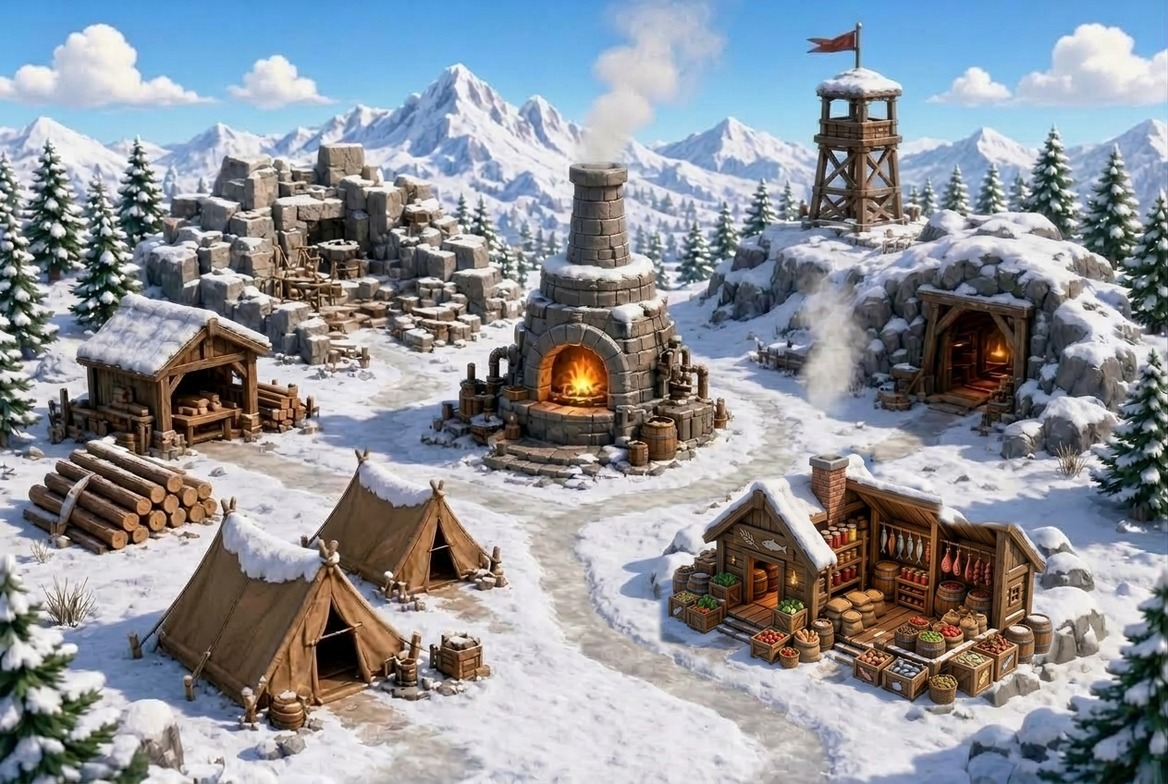
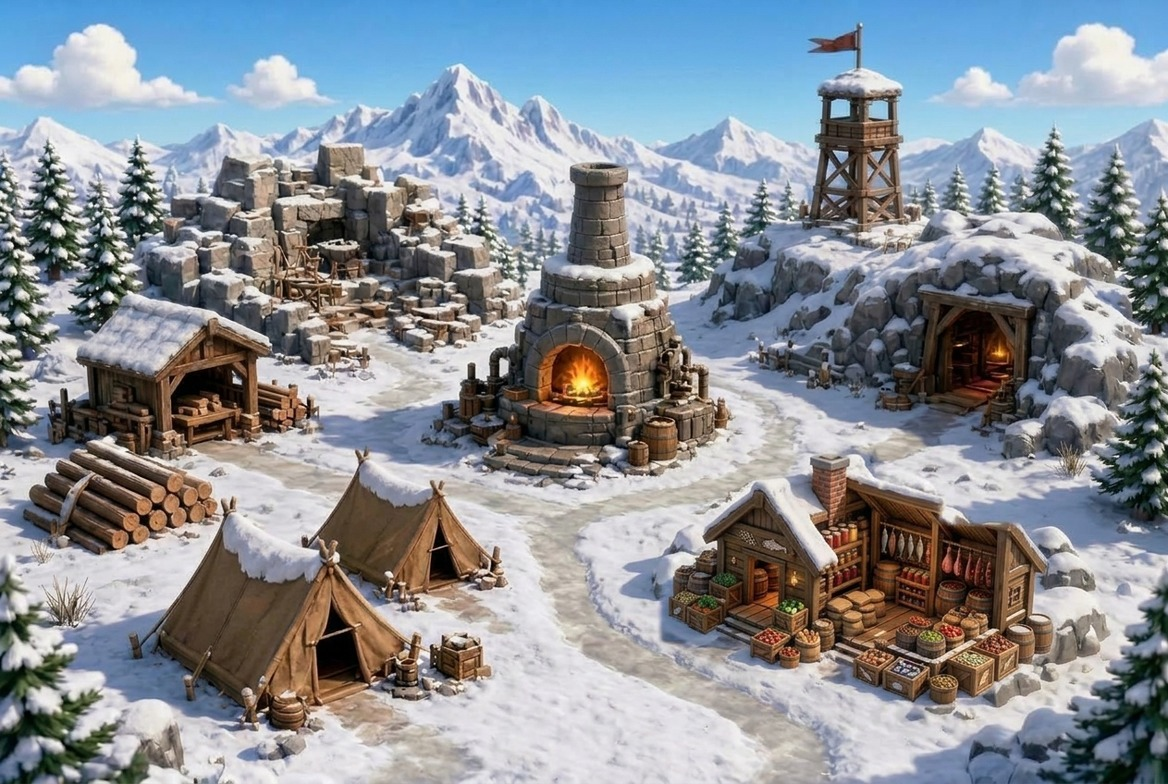
Lv5 の基地の絵から描いてある煙を消す（動く煙と重ならないように。判断184）
Claude-Session: https://claude.ai/code/session_01UjvwbQ2i7zhmuacMMpyLDn

diff --git a/DECISIONS.md b/DECISIONS.md
@@ -257,3 +257,4 @@
 181. 基地の絵の名札を小さくして建物からずらす（2026-09-28 ユーザーの了承）：判断177 の札（小さな建物の絵＋名前）は建物の絵に重なり、レベルで変わる姿（判断180）が見えにくかったため、小さな絵をやめて名前・Lv の名札だけにし、建物のすぐ下などの空いた地面に置く（`base.js` の `ART_SPOTS`）。建物の絵そのもの（`ART_AREAS` の楕円の内側の四角）も押せる（見た目はなし。キーボード・読み上げでは名札を使う）。強化できるときは名札のふちを緑にして ▲、工事中はふちを黄色にして 🔨、まだ使えないときは薄くして 🔒。
 182. Lv5 の基地の絵の食料庫を描き直す（2026-09-28 ユーザーの依頼と了承）：右下の「家＋ガラスの温室」は食料庫に見えないため、食料を蓄える木の蔵（前が開いて棚・たる・干した魚や肉・穀物の袋、まわりに野菜や果物の箱、れんがの煙突、看板は麦と魚の絵で文字なし）にした。Gemini（gemini-3.1-flash-image）で、(1) Lv5 の絵の食料庫だけを描き直し、(2) 看板の文字と道にはみ出した箱を消した。大きさは頼んでも変わらなかったため、(3) 食料庫を消した雪の絵を作ってもらい、(2) の絵から食料庫を切り抜いて 78% に縮め、(3) に貼った（ほかの建物は位置がずれていないことを重ねて確かめた）。元の絵 `img/test_img/field_lv5.jpg`（1168×784）と `img/art/field_lv5.jpg`（幅 960px）を差し替え、食料庫の煙の出どころを x 71.0%・y 58%（粒は少し小さく）、重ねる楕円を cy 73%・ry 20%、名札を y 86% に直した（はじめは y 92% にしたが、下すぎたので住宅の名札と同じくらいの高さに上げた）。食料庫のまわりの雪に岩が少し増え、中央炉の右下にたるが少し増えている（切り貼りの土台にした絵のため。重ねる範囲では目立たない）。
 183. Lv2〜4 の基地の絵を足す（2026-09-28 ユーザーの依頼。安いモデルだけ・煙なし）：Gemini（gemini-3.1-flash-image）に Lv1 の絵（編集する絵）と Lv5 の絵（参考）を渡し、建物ごとに「そのレベルの途中の姿」を文章で指定して、Lv2・Lv3・Lv4 を1枚ずつ作った（煙・湯気・文字は描かない。見張り塔の柱はそのまま）。各レベルの姿：採石場（Lv2 切った石と道具・そり → Lv3 段に切った岩と作業台 → Lv4 段々の採石場と小さなやぐら）、木工所（Lv2 切り株の斧と木挽き台 → Lv3 丸太の上に片流れの屋根 → Lv4 小さな木の作業小屋）、中央炉（Lv2 石で囲んだたき火と鍋かけ → Lv3 低い石のかまど → Lv4 短い煙突の石のドーム炉）、鉱山（Lv2 入口の柱2本とランタン → Lv3 木の枠と手押し車 → Lv4 枠・線路・トロッコ）、住宅（Lv2 しっかりしたテント → Lv3 大きなテント → Lv4 テント2つ）、食料庫（Lv2 箱・たる・袋と布の屋根 → Lv3 棚のある小さな小屋 → Lv4 Lv5 より小さな蔵）。Lv2・Lv3 は Lv1 の配置、Lv4 は Lv5 に近い配置で描かれたが、どの建物も `ART_AREAS` の楕円に入り、見張り塔の柱の位置もそろっていたので、1回目の絵をそのまま使った（元の絵 `img/test_img/field_lv2.jpg`〜`lv4.jpg`、1260×848。ゲーム用は幅 960px）。`FIELD_LEVELS` を `[1, 2, 3, 4, 5]` にし、中央炉の煙の出どころに Lv2（たき火）・Lv3（かまどの上）・Lv4（短い煙突）を足した。食料庫の煙は Lv5 だけ（Lv2〜4 は煙突がない）。
+184. Lv5 の基地の絵から描いてある煙を消す（2026-09-28 ユーザーの依頼）：Lv5 の絵には中央炉の煙突の煙と、鉱山の手前の煙（判断182 で家を食料庫に描き直したあとも残った、前の家の煙突の煙）が描いてあり、ゲームで動かす煙（判断179）と重なるため。Gemini（gemini-3.1-flash-image）で煙だけを消し（炉の中の火は残す）、ほかの建物の位置がずれていないことを確かめて `img/test_img/field_lv5.jpg`（1168×784）と `img/art/field_lv5.jpg` を差し替えた。これで Lv1〜5 のどの絵にも煙は描いていない（Lv1 のたき火にもない）。煙の出どころ（`ART_SMOKE`）は変えない。

diff --git a/CLAUDE.md b/CLAUDE.md
@@ -6,7 +6,7 @@
 
 - 仕様：`SPEC.md`（v0.1＋v0.4 の勉強量ポイントと引換所）、`SPEC_v0.2.md`（探索。矛盾したらこちらが優先）、`SPEC_save_integrity.md`、`SPEC_theme.md`、`SPEC_theme_default_day.md`、`SPEC_v0.3.md`、`SPEC_v0.3_battle.md`
 - 設計：`DESIGN.md`（v0.2 は第12章、v0.3 戦闘は第13章、v0.4 は第14章）
-- **判断した点（19〜）と進捗の詳細：`DECISIONS.md`**。仕様にない判断をしたら、その末尾に番号を続けて追記する（次は 184）。関係する機能を変える前に、該当する判断を検索して読む
+- **判断した点（19〜）と進捗の詳細：`DECISIONS.md`**。仕様にない判断をしたら、その末尾に番号を続けて追記する（次は 185）。関係する機能を変える前に、該当する判断を検索して読む
 - 問題データの書き方：`QUESTIONS_GUIDE.md`（`questions/*.js` を作る・直す前に必ず読む）
 - 完成報告：`REPORT.md`（v0.1）、`REPORT_v0.2.md`、`REPORT_v0.3.md`、`REPORT_v0.4.md`
 - 手動確認：`tests/MANUAL.md`（末尾に自動テストとの分類の表）
@@ -26,7 +26,7 @@
 
 - v0.1〜v0.3（探索・戦闘・ボス・問題 1062問すべて `reviewed: true`）：完成・承認済み
 - v0.4（勉強量ポイントと引換所）：v0.4-1〜4 承認済み。v0.4-5（手動確認と完成報告）と「引換券を使うしくみ・メールの廃止」（判断173）は確認待ち
-- 見た目は昼だけ（夜のテーマは完成後に検討。判断176）。開始画面は試作の見た目（判断174、Google Fonts は判断175）。基地・資源・教科のアイコンは生成した絵の試作（判断177、基地の絵は建物のレベルで変わる＝判断180、Lv5 の食料庫は判断182、Lv2〜4 の絵は判断183、`config.ART_STYLE` で戻せる。絵は `img/art/`、元の絵は `img/test_img/`）
+- 見た目は昼だけ（夜のテーマは完成後に検討。判断176）。開始画面は試作の見た目（判断174、Google Fonts は判断175）。基地・資源・教科のアイコンは生成した絵の試作（判断177、基地の絵は建物のレベルで変わる＝判断180、Lv5 の食料庫は判断182、Lv2〜4 の絵は判断183、絵に煙は描かない＝判断184、`config.ART_STYLE` で戻せる。絵は `img/art/`、元の絵は `img/test_img/`）
 - 今後の検討課題：Lv1 の算数の出題範囲を広げる（判断161）。QR コード＋データベース（Supabase など）で引換券の使用済みを確かめる案（SPEC 14.5）。保護者用のロック（SPEC 14.4）
 - 自動テスト 403件すべて成功、`node tests/simulate.js` はすべて目標内
 
